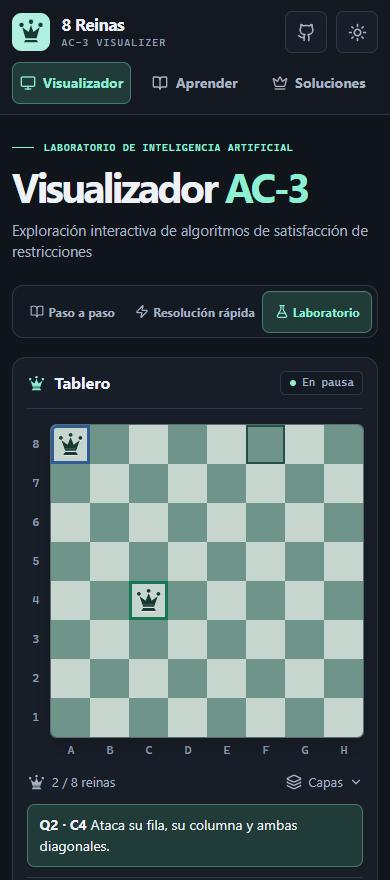
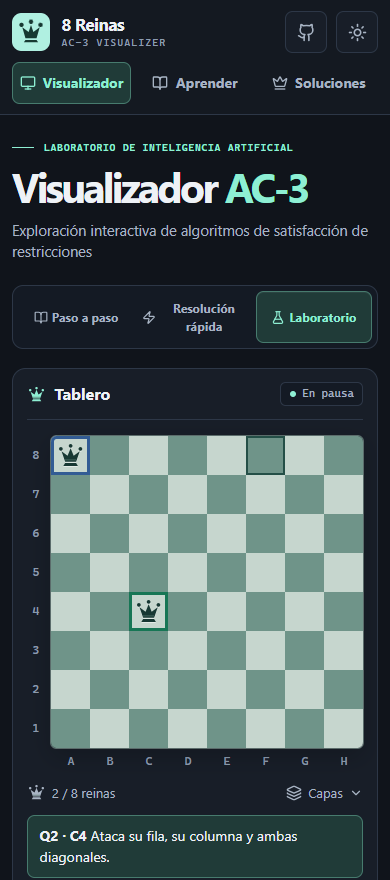
Ajustar la navegación para pantallas móviles estrechas

diff --git a/src/styles.css b/src/styles.css
@@ -313,7 +313,7 @@ caption { text-align: left; padding: 0 .45rem .5rem; color: var(--accent); font-
 @media (max-width: 760px) {
   .header-inner { grid-template-columns: 1fr 1fr; gap: .55rem; padding: .7rem 0 .6rem; }
   .site-nav { grid-row: 2; grid-column: 1 / -1; width: 100%; }
-  .site-nav a { flex: 1; padding-inline: .3rem; }
+  .site-nav a { flex: 1; min-width: 0; padding-inline: .3rem; white-space: normal; }
   .header-actions { grid-column: 2; grid-row: 1; }
   .page-intro { padding-top: 1.6rem; padding-bottom: 1.35rem; }
   .workspace { grid-template-columns: minmax(0, 1fr); }
@@ -338,7 +338,7 @@ caption { text-align: left; padding: 0 .45rem .5rem; color: var(--accent); font-
   .panel, .board-panel { padding: .85rem; }
   .mode-bar, .mode-tabs { width: 100%; }
   .mode-tabs { gap: .14rem; }
-  .mode-tabs button { flex: 1; padding-inline: .27rem; font-size: .76rem; gap: .25rem; min-height: 42px; }
+  .mode-tabs button { flex: 1; min-width: 0; padding-inline: .27rem; font-size: .76rem; gap: .25rem; min-height: 42px; white-space: normal; }
   .mode-tabs svg { width: 14px; }
   .domain-row { grid-template-columns: 1.82rem repeat(8, minmax(0, 1fr)); gap: .19rem; }
   .domain-value { min-height: 28px; }
@@ -348,6 +348,9 @@ caption { text-align: left; padding: 0 .45rem .5rem; color: var(--accent); font-
   .learning-demo { grid-column: auto; }
   .lesson-list { max-height: 17rem; overflow: auto; }
   .site-footer > div { flex-wrap: wrap; }
+}
+@media (max-width: 360px) {
+  .site-nav svg, .mode-tabs svg { display: none; }
 }
 @media (prefers-reduced-motion: reduce) {
   *, *::before, *::after { transition-duration: 0s !important; animation-duration: 0s !important; scroll-behavior: auto !important; }

diff --git a/tests/e2e/platform.spec.ts b/tests/e2e/platform.spec.ts
@@ -75,8 +75,11 @@ test('permite detener una búsqueda animada', async ({ page }) => {
 })
 
 test('sitio móvil sin desbordamiento, navegación, tema y reducción de movimiento', async ({ page }) => {
-  await page.setViewportSize({ width: 390, height: 844 })
+  await page.setViewportSize({ width: 320, height: 740 })
   await page.goto('./')
+  await expect(page.getByRole('button', { name: 'Iniciar', exact: true })).toBeVisible()
+  expect(await page.evaluate(() => document.documentElement.scrollWidth)).toBe(320)
+  await page.setViewportSize({ width: 390, height: 844 })
   await expect(page.getByRole('button', { name: 'Iniciar', exact: true })).toBeVisible()
   expect(await page.evaluate(() => document.documentElement.scrollWidth)).toBe(390)
   await page.getByRole('link', { name: 'Aprender', exact: true }).click()
